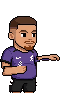
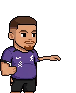
Monte Pascoal, controles, bracos (BUILD 202610211520)

diff --git a/js/game.js b/js/game.js
@@ -55,7 +55,7 @@ function portrait(i, x, y, sc = 1, pose = "idle", flip = 1, dark, skin) {
   const f = PORTRAITS[i]; f.skin = skin || null; f.x = 0; f.y = 0; f.facing = flip; f.state = "idle"; f.anim = game.frame; f.flash = 0; f.input = {}; f.inFight = false; const op = f.pose; f.pose = () => pose;
   g.save(); try { g.translate(x, y); g.scale(sc, sc); if (dark) g.filter = "brightness(0)"; f.draw(g); } catch (e) { console.error("retrato", e); } finally { g.restore(); f.pose = op; }
 }
-function drawCommands(x, y, lh = 8, size = 6, cols = 2) {
+function drawCommands(x, y, lh = 8, size = 6, cols = 2) { const T = NOME_TECLA, b = BINDS.p1; COMMANDS[0][0] = T(b.lp) + " / " + T(b.hp); COMMANDS[1][0] = T(b.lk) + " / " + T(b.hk); COMMANDS[7][0] = "perto → / ← + " + T(b.hp); COMMANDS[8][0] = T(b.sp) + " / " + T(b.su); COMMANDS[9][0] = "Enter / " + T(b.start);
   const per = Math.ceil(COMMANDS.length / cols);
   COMMANDS.forEach(([k, d], i) => { const cx = x + Math.floor(i / per) * 150, cy = y + (i % per) * lh; txt(k, cx, cy, size, "#ffd23f", "left"); txt(d, cx + 62, cy, size, "#fff", "left"); });
 }
@@ -76,15 +76,16 @@ function title() {
     if (Math.floor(t / 15) % 2) txt("APERTE START", W / 2, 124, 12, "#ffd23f");
     if (P("ok")) { game.coin = 2; game.menuSel = 0; Audio8.menu(); }
   } else {
-    const items = ["ARCADE", "LUTA LIVRE (VS CPU)", "VERSUS (2 JOGADORES)", "DIFICULDADE: ◀ " + DIFFS[game.diff].n + " ▶", "COMANDOS"];
-    items.forEach((s, i) => txt((i === game.menuSel ? "▶ " : "  ") + s, W / 2, 110 + i * 11, 8, i === game.menuSel ? "#ffd23f" : "#bbb"));
-    if (P("up")) { game.menuSel = (game.menuSel + 4) % 5; Audio8.menu(); }
-    if (P("down")) { game.menuSel = (game.menuSel + 1) % 5; Audio8.menu(); }
+    const items = ["ARCADE", "LUTA LIVRE (VS CPU)", "VERSUS (2 JOGADORES)", "DIFICULDADE: ◀ " + DIFFS[game.diff].n + " ▶", "CONTROLES", "COMANDOS"];
+    items.forEach((s, i) => txt((i === game.menuSel ? "▶ " : "  ") + s, W / 2, 106 + i * 10, 8, i === game.menuSel ? "#ffd23f" : "#bbb"));
+    if (P("up")) { game.menuSel = (game.menuSel + 5) % 6; Audio8.menu(); }
+    if (P("down")) { game.menuSel = (game.menuSel + 1) % 6; Audio8.menu(); }
     if (game.menuSel === 3 && (P("left") || P("right"))) { game.diff = (game.diff + (P("left") ? 2 : 1)) % 3; Audio8.menu(); }
     if (P("ok")) { Audio8.menu();
       if (game.menuSel <= 2) { game.mode = ["arcade", "free", "versus"][game.menuSel]; game.ready = [false, false]; game.ladderPos = 0; game.screen = "select"; game.sel = [0, 1]; }
       if (game.menuSel === 3) game.diff = (game.diff + 1) % 3;
-      if (game.menuSel === 4) game.showCmds = true; }
+      if (game.menuSel === 4) abrirControles("title");
+      if (game.menuSel === 5) game.showCmds = true; }
     if (P("back")) game.coin = 1;
   }
   txt("CRÉDITO " + Math.min(1, game.coin), W - 6, H - 6, 7, "#aaa", "right");
@@ -275,14 +276,15 @@ function fight() {
     txt(w < 0 ? "EMPATE" : (game.mode === "versus" ? `P${w + 1} VENCE!` : w === 0 ? "VOCÊ VENCEU!" : "VOCÊ PERDEU!"), W / 2, 70, 16, "#fff", "center", "#00f", 1.5);
     if (game.perfect && w >= 0) bigTxt("PERFECT", 96, 26, "#ffd23f", "#f0f"); }
   if (game.paused) pauseMenu();
-  else if (Input.any(["Enter", "KeyP"]) && (game.phase === "fight" || game.phase === "intro")) { game.paused = true; Audio8.menu(); }
+  else if (Input.any(["Enter", "KeyP", BINDS.p1.start, BINDS.p2.start]) && (game.phase === "fight" || game.phase === "intro")) { game.paused = true; Audio8.menu(); }
 }
 function pauseMenu() {
   g.fillStyle = "#000c"; g.fillRect(0, 0, W, H); txt("PAUSA", W / 2, 18, 16, "#ffd23f", "center", "#f80", 1.5);
   txt("COMANDOS (direções relativas: → = para frente)", W / 2, 36, 6, "#8cf"); drawCommands(14, 48, 10, 6, 1);
-  txt("P2 (Versus): setas | Num4/5 soco | Num1/2 chute | Num6 esp. | Num3 super", W / 2, 152, 6, "#ccc");
-  txt("ENTER/P continuar    ESC sair para o título", W / 2, 166, 7, "#fff");
-  if (Input.any(["Enter", "KeyP"])) { game.paused = false; Audio8.menu(); }
+  txt("P2: " + ["up","down","left","right","lp","hp","lk","hk","sp","su"].map(a => NOME_TECLA(BINDS.p2[a])).join(" ") + "   (teclas atuais: menu CONTROLES)", W / 2, 152, 6, "#ccc");
+  txt("ENTER/P continuar   C controles   ESC sair", W / 2, 166, 7, "#fff");
+  if (Input.wasPressed("KeyC")) { abrirControles("fight"); return; }
+  if (Input.any(["Enter", "KeyP", BINDS.p1.start, BINDS.p2.start])) { game.paused = false; Audio8.menu(); }
   if (P("back")) { game.paused = false; Audio8.stopMusic(); game.screen = "title"; game.coin = 1; }
 }
 function endMatch(w) { game.matchWinner = w; game.screen = "quote"; game.qT = 0; Audio8.stopMusic(); if (game.mode === "versus" || w === 0) Audio8.win(); else Audio8.ko(); }
@@ -325,8 +327,51 @@ function ending() {
   if (t > 90 && game.frame % 30 < 20) txt("ENTER", W / 2, 172, 8, "#8cf");
   if (t > 90 && P("ok")) { game.screen = "title"; game.coin = 0; }
 }
+// ---------- CONTROLES (troca de teclas) ----------
+const ctl = { col: 0, row: 0, wait: false, msg: "", msgT: 0, from: "title", backup: null };
+function abrirControles(from) { Object.assign(ctl, { col: 0, row: 0, wait: false, msg: "", from, backup: JSON.stringify(BINDS) }); game.screen = "controls"; Audio8.menu(); Input.takeLast(); }
+function sairControles(salvar) {
+  if (salvar) salvarControles(); else { BINDS = JSON.parse(ctl.backup); aplicarControles(); }
+  game.screen = ctl.from; Audio8.menu();
+}
+function controls() {
+  g.fillStyle = "#0c0c24"; g.fillRect(0, 0, W, H);
+  for (let y = 0; y < H; y += 4) { g.fillStyle = "#11113a"; g.fillRect(0, y, W, 1); }
+  txt("CONTROLES", W / 2, 10, 12, "#ffd23f", "center", "#f80", 1.5);
+  const N = ACOES.length, y0 = 34, lh = 10, cx = [150, 245];
+  txt("P1", cx[0], 24, 8, "#ff3b3b"); txt("P2", cx[1], 24, 8, "#3b9bff");
+  const dono = k => { for (const pl of ["p1", "p2"]) for (const [a] of ACOES) if (BINDS[pl][a] === k) return [pl, a]; return null; };
+  ACOES.forEach(([a, nome], i) => {
+    const y = y0 + i * lh; txt(nome, 12, y, 7, "#fff", "left");
+    ["p1", "p2"].forEach((pl, c) => { const sel = ctl.row === i && ctl.col === c;
+      if (sel) { g.fillStyle = ctl.wait ? (game.frame % 20 < 10 ? "#f80" : "#a40") : "#ffd23f"; g.fillRect(cx[c] - 34, y - 5, 68, 9); }
+      txt(sel && ctl.wait ? "APERTE..." : NOME_TECLA(BINDS[pl][a]), cx[c], y, 7, sel ? "#000" : "#bdf"); });
+  });
+  const by = y0 + N * lh + 4, bts = ["PADRÃO", "SALVAR E VOLTAR", "CANCELAR"], bx = [60, 160, 262];
+  bts.forEach((b, i) => { const sel = ctl.row === N && ctl.col === i; g.fillStyle = sel ? "#ffd23f" : "#334"; g.fillRect(bx[i] - 42, by - 6, 84, 11); txt(b, bx[i], by, 7, sel ? "#000" : "#fff"); });
+  if (ctl.msgT > 0) { ctl.msgT--; txt(ctl.msg, W / 2, H - 16, 6, "#f84"); }
+  txt(ctl.wait ? "aperte a nova tecla (ESC cancela)" : "setas mover   ENTER trocar tecla   ESC voltar sem salvar", W / 2, H - 6, 6, "#8cf");
+  if (ctl.wait) {
+    const k = Input.takeLast(); if (!k || k.startsWith("T_")) return;
+    ctl.wait = false; if (k === "Escape") return;
+    const pl = ["p1", "p2"][ctl.col], a = ACOES[ctl.row][0], velho = BINDS[pl][a], d = dono(k);
+    if (d && !(d[0] === pl && d[1] === a)) { BINDS[d[0]][d[1]] = velho; ctl.msg = `CONFLITO: ${NOME_TECLA(k)} era de ${d[0].toUpperCase()} ${ACOES.find(x => x[0] === d[1])[1]} — teclas trocadas`; ctl.msgT = 180; }
+    BINDS[pl][a] = k; aplicarControles(); Audio8.coin(); Input.endFrame(); return;
+  }
+  const raw = k => Input.wasPressed(k), cols = ctl.row === N ? 3 : 2;
+  if (raw("ArrowUp")) { ctl.row = (ctl.row + N) % (N + 1); ctl.col = Math.min(ctl.col, ctl.row === N ? 2 : 1); Audio8.menu(); }
+  if (raw("ArrowDown")) { ctl.row = (ctl.row + 1) % (N + 1); ctl.col = Math.min(ctl.col, ctl.row === N ? 2 : 1); Audio8.menu(); }
+  if (raw("ArrowLeft")) { ctl.col = (ctl.col + cols - 1) % cols; Audio8.menu(); }
+  if (raw("ArrowRight")) { ctl.col = (ctl.col + 1) % cols; Audio8.menu(); }
+  if (raw("Escape")) return sairControles(false);
+  if (raw("Enter") || raw("NumpadEnter")) {
+    if (ctl.row < N) { ctl.wait = true; Input.takeLast(); Audio8.menu(); }
+    else if (ctl.col === 0) { BINDS = JSON.parse(JSON.stringify(BINDS_PADRAO)); aplicarControles(); ctl.msg = "TECLAS PADRÃO RESTAURADAS (salve para manter)"; ctl.msgT = 150; Audio8.coin(); }
+    else sairControles(ctl.col === 1);
+  }
+}
 // ---------- loop ----------
-const SCREENS = { title, select, stageSelect, vs, fight, quote, continue: cont, gameover, ending };
+const SCREENS = { controls, title, select, stageSelect, vs, fight, quote, continue: cont, gameover, ending };
 let last = 0, acc = 0;
 function loop(ts) {
   acc += Math.min(100, ts - (last || ts)); last = ts;

diff --git a/js/input.js b/js/input.js
@@ -1,26 +1,44 @@
 // Mapas de controle. lp/hp = soco fraco/forte, lk/hk = chute fraco/forte, sp = especial simples, su = super simples
-const CONTROLS = {
-  p1: { left: ["KeyA", "ArrowLeft"], right: ["KeyD", "ArrowRight"], up: ["KeyW", "ArrowUp"], down: ["KeyS", "ArrowDown"],
-        lp: ["KeyU"], hp: ["KeyI"], lk: ["KeyJ"], hk: ["KeyK"], sp: ["KeyL"], su: ["KeyO"] },
-  p1vs: { left: ["KeyA"], right: ["KeyD"], up: ["KeyW"], down: ["KeyS"], lp: ["KeyU"], hp: ["KeyI"], lk: ["KeyJ"], hk: ["KeyK"], sp: ["KeyL"], su: ["KeyO"] },
-  p2: { left: ["ArrowLeft"], right: ["ArrowRight"], up: ["ArrowUp"], down: ["ArrowDown"],
-        lp: ["Numpad4", "Comma"], hp: ["Numpad5", "Period"], lk: ["Numpad1", "Semicolon"], hk: ["Numpad2", "Slash"], sp: ["Numpad6", "Quote"], su: ["Numpad3", "BracketRight"] },
+// Mapas de controle. lp/hp = soco fraco/forte, lk/hk = chute fraco/forte, sp = especial simples, su = super simples, start = pausa
+// As teclas podem ser trocadas no jogo (menu CONTROLES) e ficam salvas no navegador (localStorage "guerra_controles").
+const ACOES = [["up", "CIMA (pulo)"], ["down", "BAIXO"], ["left", "ESQUERDA"], ["right", "DIREITA"], ["lp", "SOCO FRACO"], ["hp", "SOCO FORTE"],
+  ["lk", "CHUTE FRACO"], ["hk", "CHUTE FORTE"], ["sp", "ESPECIAL"], ["su", "SUPER"], ["start", "START / PAUSA"]];
+const BINDS_PADRAO = {
+  p1: { up: "KeyW", down: "KeyS", left: "KeyA", right: "KeyD", lp: "KeyU", hp: "KeyI", lk: "KeyJ", hk: "KeyK", sp: "KeyL", su: "KeyO", start: "KeyP" },
+  p2: { up: "ArrowUp", down: "ArrowDown", left: "ArrowLeft", right: "ArrowRight", lp: "Numpad4", hp: "Numpad5", lk: "Numpad1", hk: "Numpad2", sp: "Numpad6", su: "Numpad3", start: "NumpadAdd" },
 };
+let BINDS = JSON.parse(JSON.stringify(BINDS_PADRAO));
+try { const sv = JSON.parse(localStorage.getItem("guerra_controles") || "null"); if (sv) for (const pl of ["p1", "p2"]) Object.assign(BINDS[pl], sv[pl] || {}); } catch (e) {}
+const CONTROLS = { p1: {}, p1vs: {}, p2: {} };
+function aplicarControles() {
+  for (const [a] of ACOES) {
+    const k1 = BINDS.p1[a], k2 = BINDS.p2[a], t = "T_" + a;          // T_* = botões de toque (sempre do P1)
+    const alt = { up: "ArrowUp", down: "ArrowDown", left: "ArrowLeft", right: "ArrowRight" }[a];
+    CONTROLS.p1[a] = [k1, t].concat(alt && !Object.values(BINDS.p1).includes(alt) ? [alt] : []);   // 1 jogador: setas também andam
+    CONTROLS.p1vs[a] = [k1, t]; CONTROLS.p2[a] = [k2];
+  }
+}
+function salvarControles() { try { localStorage.setItem("guerra_controles", JSON.stringify(BINDS)); } catch (e) {} aplicarControles(); }
+aplicarControles();
+const NOME_TECLA = k => !k ? "---" : k.replace(/^Key/, "").replace(/^Digit/, "").replace(/^Numpad/, "Num ").replace("ArrowUp", "↑").replace("ArrowDown", "↓").replace("ArrowLeft", "←").replace("ArrowRight", "→")
+  .replace("Comma", ",").replace("Period", ".").replace("Semicolon", ";").replace("Slash", "/").replace("Quote", "'").replace("BracketRight", "]").replace("BracketLeft", "[").replace("Space", "ESPAÇO").replace("ShiftLeft", "SHIFT E").replace("ShiftRight", "SHIFT D").replace("ControlLeft", "CTRL E").replace("ControlRight", "CTRL D");
 const Input = (() => {
   const down = new Set(), pressed = new Set();
-  const press = k => { if (!down.has(k)) pressed.add(k); down.add(k); Audio8.init(); };
+  let ultima = null;
+  const press = k => { ultima = k; if (!down.has(k)) pressed.add(k); down.add(k); Audio8.init(); };
   const release = k => down.delete(k);
   addEventListener("keydown", e => { press(e.code); if (e.code.startsWith("Arrow") || e.code === "Space" || e.code === "Quote" || e.code === "Slash") e.preventDefault(); });
   addEventListener("keyup", e => release(e.code));
   addEventListener("blur", () => down.clear());
   document.querySelectorAll(".tb").forEach(b => {
-    const k = b.dataset.k;
-    b.addEventListener("touchstart", e => { e.preventDefault(); press(k); });
-    b.addEventListener("touchend", e => { e.preventDefault(); release(k); });
-    b.addEventListener("mousedown", () => press(k)); b.addEventListener("mouseup", () => release(k));
+    const k = b.dataset.k, t = b.dataset.a ? "T_" + b.dataset.a : null;   // tecla de menu + ação mapeada do P1
+    const on = () => { press(k); if (t) press(t); }, off = () => { release(k); if (t) release(t); };
+    b.addEventListener("touchstart", e => { e.preventDefault(); on(); });
+    b.addEventListener("touchend", e => { e.preventDefault(); off(); });
+    b.addEventListener("mousedown", on); b.addEventListener("mouseup", off);
   });
   return {
-    isDown: k => down.has(k), wasPressed: k => pressed.has(k), any: ks => ks.some(k => pressed.has(k)), endFrame: () => pressed.clear(),
+    takeLast() { const k = ultima; ultima = null; return k; }, isDown: k => down.has(k), wasPressed: k => pressed.has(k), any: ks => ks.some(k => pressed.has(k)), endFrame: () => pressed.clear(),
     player(map) { const h = {}, p = {}; for (const a in map) { h[a] = map[a].some(k => down.has(k)); p[a] = map[a].some(k => pressed.has(k)); } return { held: h, pressed: p }; },
   };
 })();

diff --git a/index.html b/index.html
@@ -10,8 +10,8 @@ canvas{image-rendering:pixelated;image-rendering:crisp-edges;background:#000}
 @media (pointer:coarse){#touch{display:flex}}
 </style></head><body>
 <div id="wrap"><canvas id="c" width="640" height="360"></canvas></div>
-<div id="touch"><div><span class="tb" data-k="ArrowLeft">◀</span><span class="tb" data-k="ArrowUp">▲</span><span class="tb" data-k="ArrowDown">▼</span><span class="tb" data-k="ArrowRight">▶</span></div>
-<div><span class="tb" data-k="KeyU">SF</span><span class="tb" data-k="KeyI">SF+</span><span class="tb" data-k="KeyJ">CF</span><span class="tb" data-k="KeyK">CF+</span><span class="tb" data-k="KeyL">ESP</span><span class="tb" data-k="KeyO">SUP</span><span class="tb" data-k="Enter">OK</span></div></div>
-<script>window.BUILD="202610211500";</script><script src="js/characters.js?v=202610211500"></script><script src="js/stages.js?v=202610211500"></script><script src="js/audio.js?v=202610211500"></script><script src="js/input.js?v=202610211500"></script>
-<script src="js/fighter.js?v=202610211500"></script><script src="js/ai.js?v=202610211500"></script><script src="js/game.js?v=202610211500"></script>
+<div id="touch"><div><span class="tb" data-k="ArrowLeft" data-a="left">◀</span><span class="tb" data-k="ArrowUp" data-a="up">▲</span><span class="tb" data-k="ArrowDown" data-a="down">▼</span><span class="tb" data-k="ArrowRight" data-a="right">▶</span></div>
+<div><span class="tb" data-k="KeyU" data-a="lp">SF</span><span class="tb" data-k="KeyI" data-a="hp">SF+</span><span class="tb" data-k="KeyJ" data-a="lk">CF</span><span class="tb" data-k="KeyK" data-a="hk">CF+</span><span class="tb" data-k="KeyL" data-a="sp">ESP</span><span class="tb" data-k="KeyO" data-a="su">SUP</span><span class="tb" data-k="Enter">OK</span></div></div>
+<script>window.BUILD="202610211520";</script><script src="js/characters.js?v=202610211520"></script><script src="js/stages.js?v=202610211520"></script><script src="js/audio.js?v=202610211520"></script><script src="js/input.js?v=202610211520"></script>
+<script src="js/fighter.js?v=202610211520"></script><script src="js/ai.js?v=202610211520"></script><script src="js/game.js?v=202610211520"></script>
 </body></html>

diff --git a/js/stages.js b/js/stages.js
@@ -4,5 +4,6 @@
 const STAGES = [
   { name: "CSM Nova Suíça", image: "assets/stage_csm_nova_suica.png", thumb: "assets/stage_csm_nova_suica_thumb.png", groundY: 157 },
   { name: "Clube Chalézinho", image: "assets/stage_clube_chalezinho.png", thumb: "assets/stage_clube_chalezinho_thumb.png", groundY: 163 },
+  { name: "Monte Pascoal", image: "assets/stage_monte_pascoal.png", thumb: "assets/stage_monte_pascoal_thumb.png", groundY: 163 },
   { name: "???", locked: true },
 ];

diff --git a/tools/bracos.py b/tools/bracos.py
@@ -1,0 +1,68 @@
+# Braços no estilo do Maués para João Pedro e Milk (roda depois de gerar_joao.py / gerar_milk.py).
+# Igual ao Maués: braço da frente pendurado ao lado do corpo na guarda (pixels originais),
+# braço de trás dobrado no cotovelo com o antebraço na frente da barriga,
+# soco = braço INTEIRO (manga + braço + punho) girado a partir do ombro, como maues_punch.png.
+from PIL import Image
+OL=(26,16,16,255)
+CFG={ # sy=ombro, hb=fim da mão, cl/cr = colunas de corte (braço esq x<cl, dir x>=cr), el=linha do cotovelo
+ 'milk':dict(ref='assets/milk_ref_normalizado.png',HIP=75,PADR=34,PADT=16,sy=46,hb=73,cl=10,cr=37,el=57,px=37,py=39,uy=48),  # manga curta fica no tronco; braço sai da barra da manga
+ 'joao':dict(ref='assets/joao_ref_normalizado.png',HIP=60,PADR=34,PADT=14,sy=36,hb=63,cl=10,cr=35,el=50,px=34,py=35,uy=40),  # manga comprida gira junto
+}
+def dark(p): return p[3] and sum(p[:3])<=110
+def outline(im):
+    a=im.load(); o=im.copy(); b=o.load()
+    for y in range(im.height):
+        for x in range(im.width):
+            if a[x,y][3]==0 and any(0<=x+i<im.width and 0<=y+j<im.height and a[x+i,y+j][3] and sum(a[x+i,y+j][:3])>110 for i,j in((1,0),(-1,0),(0,1),(0,-1))): b[x,y]=OL
+    return o
+def strip_ol(im):
+    im=im.copy(); a=im.load()
+    for y in range(im.height):
+        for x in range(im.width):
+            if dark(a[x,y]): a[x,y]=(0,0,0,0)
+    return im
+def build(n):
+    c=CFG[n]; S=Image.open(c['ref']).convert('RGBA'); W=S.width; HIP=c['HIP']; sy,hb,cl,cr,el=c['sy'],c['hb'],c['cl'],c['cr'],c['el']
+    up=S.crop((0,0,W,HIP+2)); a=up.load()
+    def take(x0,x1):
+        im=Image.new('RGBA',(x1-x0,hb-sy)); p=im.load()
+        for y in range(sy,min(hb,HIP+2)):
+            for x in range(x0,x1):
+                if a[x,y][3] and (y<hb-4 or a[x,y][0]>a[x,y][1]+25): p[x-x0,y-sy]=a[x,y]
+        return im
+    L=take(0,cl); R=take(cr,W)
+    body=up.copy(); q=body.load()
+    for y in range(sy,HIP+2):
+        for x in list(range(0,cl))+list(range(cr,W)):
+            if y<hb-4 or (y<hb and q[x,y][0]>q[x,y][1]+25): q[x,y]=(0,0,0,0)   # perto do quadril só tira pele (mão)
+    # tira contornos soltos que sobraram da mão (o contorno é refeito depois)
+    for _ in range(2):
+        for y in range(sy,HIP+2):
+            for x in list(range(0,cl+1))+list(range(cr-1,W)):
+                if dark(q[x,y]) and not any(0<=x+i<W and 0<=y+j<HIP+2 and q[x+i,y+j][3] and not dark(q[x+i,y+j]) for i,j in((1,0),(-1,0),(0,1),(0,-1))): q[x,y]=(0,0,0,0)
+    # fecha o tronco onde os braços saíam
+    for y in range(sy,HIP+2):
+        if q[cl,y][3] and not dark(q[cl,y]): q[cl,y]=OL
+        if q[cr-1,y][3] and not dark(q[cr-1,y]): q[cr-1,y]=OL
+    PADR,PADT=c['PADR'],c['PADT']
+    def canvas(): return Image.new('RGBA',(W+PADR,HIP+2+PADT))
+    def put(cv,im,x,y): cv.alpha_composite(im,(x,y+PADT))
+    def arm(parts):
+        """junta pedaços sem contorno interno e contorna o conjunto (ombro/cotovelo fechados)"""
+        Lr=canvas()
+        for im,x,y in parts: put(Lr,strip_ol(im),x,y)
+        return outline(Lr)
+    e=el-sy
+    # braço de trás (esquerda da imagem) dobrado: parte de cima original, antebraço girado p/ frente
+    Lup=L.crop((0,0,cl,e+2)); Lfa=L.crop((0,e,cl,hb-sy)).transpose(Image.ROTATE_90)
+    def back(dy=0): return arm([(Lup,0,sy),(Lfa,max(1,cl-6),el-Lfa.height//2-1+dy)])
+    hang=arm([(R,cr,sy)])                                   # braço da frente pendurado (como o Maués)
+    def fwd(dy=0): return arm([(R.transpose(Image.ROTATE_90),c['px'],c['py']+dy)])      # soco: braço inteiro na horizontal
+    upr=arm([(R.transpose(Image.ROTATE_180),cr,c['uy']-R.height)])                    # gancho: braço p/ cima
+    poses={'guard':[back(),hang],'block':[back(-3),hang],'punch':[back(),fwd()],'upper':[back(),upr]}
+    for k,ls in poses.items():
+        cv=canvas(); put(cv,body,0,0)
+        for l in ls: cv.alpha_composite(l)
+        outline(cv).save(f'assets/{n}/{k}.png')
+for n in CFG: build(n)
+print('ok')

diff --git a/tools/gerar_milk.py b/tools/gerar_milk.py
@@ -35,15 +35,26 @@ UPV=lambda im: im.transpose(Image.ROTATE_180).transpose(Image.FLIP_LEFT_RIGHT)  
 FWD=lambda im: im.transpose(Image.ROTATE_90)                                       # horizontal, mão p/ frente
 UA=front.crop((0,0,front.width,10))            # braço (do fim da manga até o cotovelo)
 BUA=back.crop((0,0,back.width,6))
+def skin(im):
+    im=im.copy(); a=im.load()
+    for y in range(im.height):
+        for x in range(im.width):
+            if a[x,y][3] and sum(a[x,y][:3])<=110: a[x,y]=(0,0,0,0)
+    return im
+def arm(*parts):
+    """Junta braço+antebraço numa peça só (sem contorno interno) e contorna o conjunto: cotovelo fechado."""
+    L=canvas()
+    for im,x,y in parts: put(L,skin(im),x,y)
+    return outline(L)
 def pose(kind):
     c=canvas(); put(c,body,0,0)
-    # braço de trás: manga -> braço curto -> cotovelo -> antebraço p/ frente na barriga
-    if kind=='block': put(c,BUA,1,46); put(c,FWD(back),3,48)
-    else: put(c,BUA,1,46); put(c,FWD(back),3,50)
-    if kind=='guard':   put(c,UA,36,46); put(c,UPV(front),36,32)     # cotovelo em baixo (y~56), punho no queixo
-    elif kind=='punch': put(c,FWD(front),36,38)                     # soco esticado (cotovelo encostado na manga)
-    elif kind=='upper': put(c,UA,36,46); put(c,UPV(front),36,24)     # punho p/ cima
-    elif kind=='block': put(c,UA,36,46); put(c,UPV(front),37,28)     # antebraço na frente do rosto
+    # braço de trás: sai da manga (y45), desce até o cotovelo e o antebraço cruza a barriga
+    by=48 if kind=='block' else 50
+    c.alpha_composite(arm((back.crop((0,0,back.width,by-44)),1,45),(FWD(back),3,by)))
+    if kind=='guard':   c.alpha_composite(arm((UA,36,45),(UPV(front),36,32)))
+    elif kind=='punch': c.alpha_composite(arm((FWD(front),36,38)))
+    elif kind=='upper': c.alpha_composite(arm((UA,36,45),(UPV(front),36,24)))
+    elif kind=='block': c.alpha_composite(arm((UA,36,45),(UPV(front),37,28)))
     return outline(c)
 import os; d='assets/milk/'; os.makedirs(d,exist_ok=True)
 for k in('guard','punch','upper','block'): pose(k).save(d+k+'.png')
@@ -55,3 +66,6 @@ for i,k in enumerate(['guard','punch','upper','block','win']):
     else: t.alpha_composite(legR,(23,PADT+HIP)); t.alpha_composite(legL,(8,PADT+HIP)); t.alpha_composite(im,(0,0))
     sheet.alpha_composite(t.resize((t.width*4,t.height*4),0),(i*(W+PADR)*4,0))
 sheet.save('/tmp/milksheet.png')
+
+# braços no estilo do Maués (substitui guard/punch/upper/block)
+import runpy; runpy.run_path("tools/bracos.py")

diff --git a/tools/poster.py b/tools/poster.py
@@ -50,9 +50,9 @@ for i,(n,spr,proj,pk,arq) in enumerate(chars):
     P.paste(pr,(1110-pr.width//2,y+125-pr.height//2),pr); T(1110,y+192,sp['fireball'],24,(255,210,63),'ma',False)
 yb=y0+3*RH+10
 T(W//2,yb,'CENÁRIOS',44,(255,210,63),'ma')
-from_json=[('CSM Nova Suíça','assets/stage_csm_nova_suica.png'),('Clube Chalézinho','assets/stage_clube_chalezinho.png')]
+from_json=[('CSM Nova Suíça','assets/stage_csm_nova_suica.png'),('Clube Chalézinho','assets/stage_clube_chalezinho.png'),('Monte Pascoal','assets/stage_monte_pascoal.png')]
 for i,(n,pth) in enumerate(from_json):
-    im=Image.open(pth).convert('RGB').resize((480,270),Image.NEAREST); x=80+i*600; d.rectangle([x-6,yb+64,x+486,yb+340],fill=(255,210,63)); P.paste(im,(x,yb+70))
-    T(x+240,yb+350,n,30,(255,255,255),'ma')
+    im=Image.open(pth).convert('RGB').resize((384,216),Image.NEAREST); x=34+i*412; d.rectangle([x-6,yb+64,x+390,yb+286],fill=(255,210,63)); P.paste(im,(x,yb+70))
+    T(x+192,yb+298,n,28,(255,255,255),'ma')
 T(W//2,H-50,'genéricos: Lutador 3 • Lutador 4 • Chefão (último do Arcade)',22,(150,150,180),'ma',False)
 P.save('screens/resumo_jogo.png'); print(P.size)

diff --git a/tools/gerar_joao.py b/tools/gerar_joao.py
@@ -66,3 +66,6 @@ for i,k in enumerate(['guard','punch','upper','block','win']):
     if k!='win': t.alpha_composite(legR,(22,PADT+HIP)); t.alpha_composite(legL,(8,PADT+HIP)); t.alpha_composite(im,(0,0))
     big.alpha_composite(t.resize((t.width*4,t.height*4),0),(i*(W+PADR)*4,0))
 big.save('/tmp/jp3sheet.png')
+
+# braços no estilo do Maués (substitui guard/punch/upper/block)
+import runpy; runpy.run_path("tools/bracos.py")

diff --git a/README.md b/README.md
@@ -118,3 +118,8 @@ Com mais de uma skin, ▲/▼ troca a skin na seleção (no Versus: W/S para o P
 - Cenário novo: `Clube Chalézinho` (`assets/stage_clube_chalezinho.png`, chão em groundY 163). No Arcade, os cenários se alternam a cada luta.
 - Frases de vitória: `quotes` (lista; o jogo sorteia uma) ou `quote`. Ficam editáveis na aba Frases da planilha.
 - Cartaz-resumo: `python3 tools/poster.py` gera `screens/resumo_jogo.png`.
+
+## Novidades (BUILD 202610211520)
+- **Monte Pascoal**: terceiro cenário (`assets/stage_monte_pascoal.png`); entra na escolha de cenário e no rodízio do Arcade.
+- **CONTROLES**: no menu principal (e na pausa, tecla **C**) dá para trocar as teclas do P1 e do P2: escolha a ação, ENTER e aperte a nova tecla. Se a tecla já tiver dono, as duas trocam de lugar (aparece um aviso). Use **PADRÃO** para voltar às teclas originais e **SALVAR E VOLTAR** para guardar (fica salvo no navegador, em localStorage). Os botões de toque continuam valendo para o P1.
+- **Braços no estilo do Maués** para João Pedro e Milk (`tools/bracos.py`, que já roda no fim de `gerar_joao.py`/`gerar_milk.py`): braço da frente pendurado ao lado do corpo, braço de trás dobrado na barriga, soco com o braço inteiro saindo da manga, cotovelos fechados com contorno.
